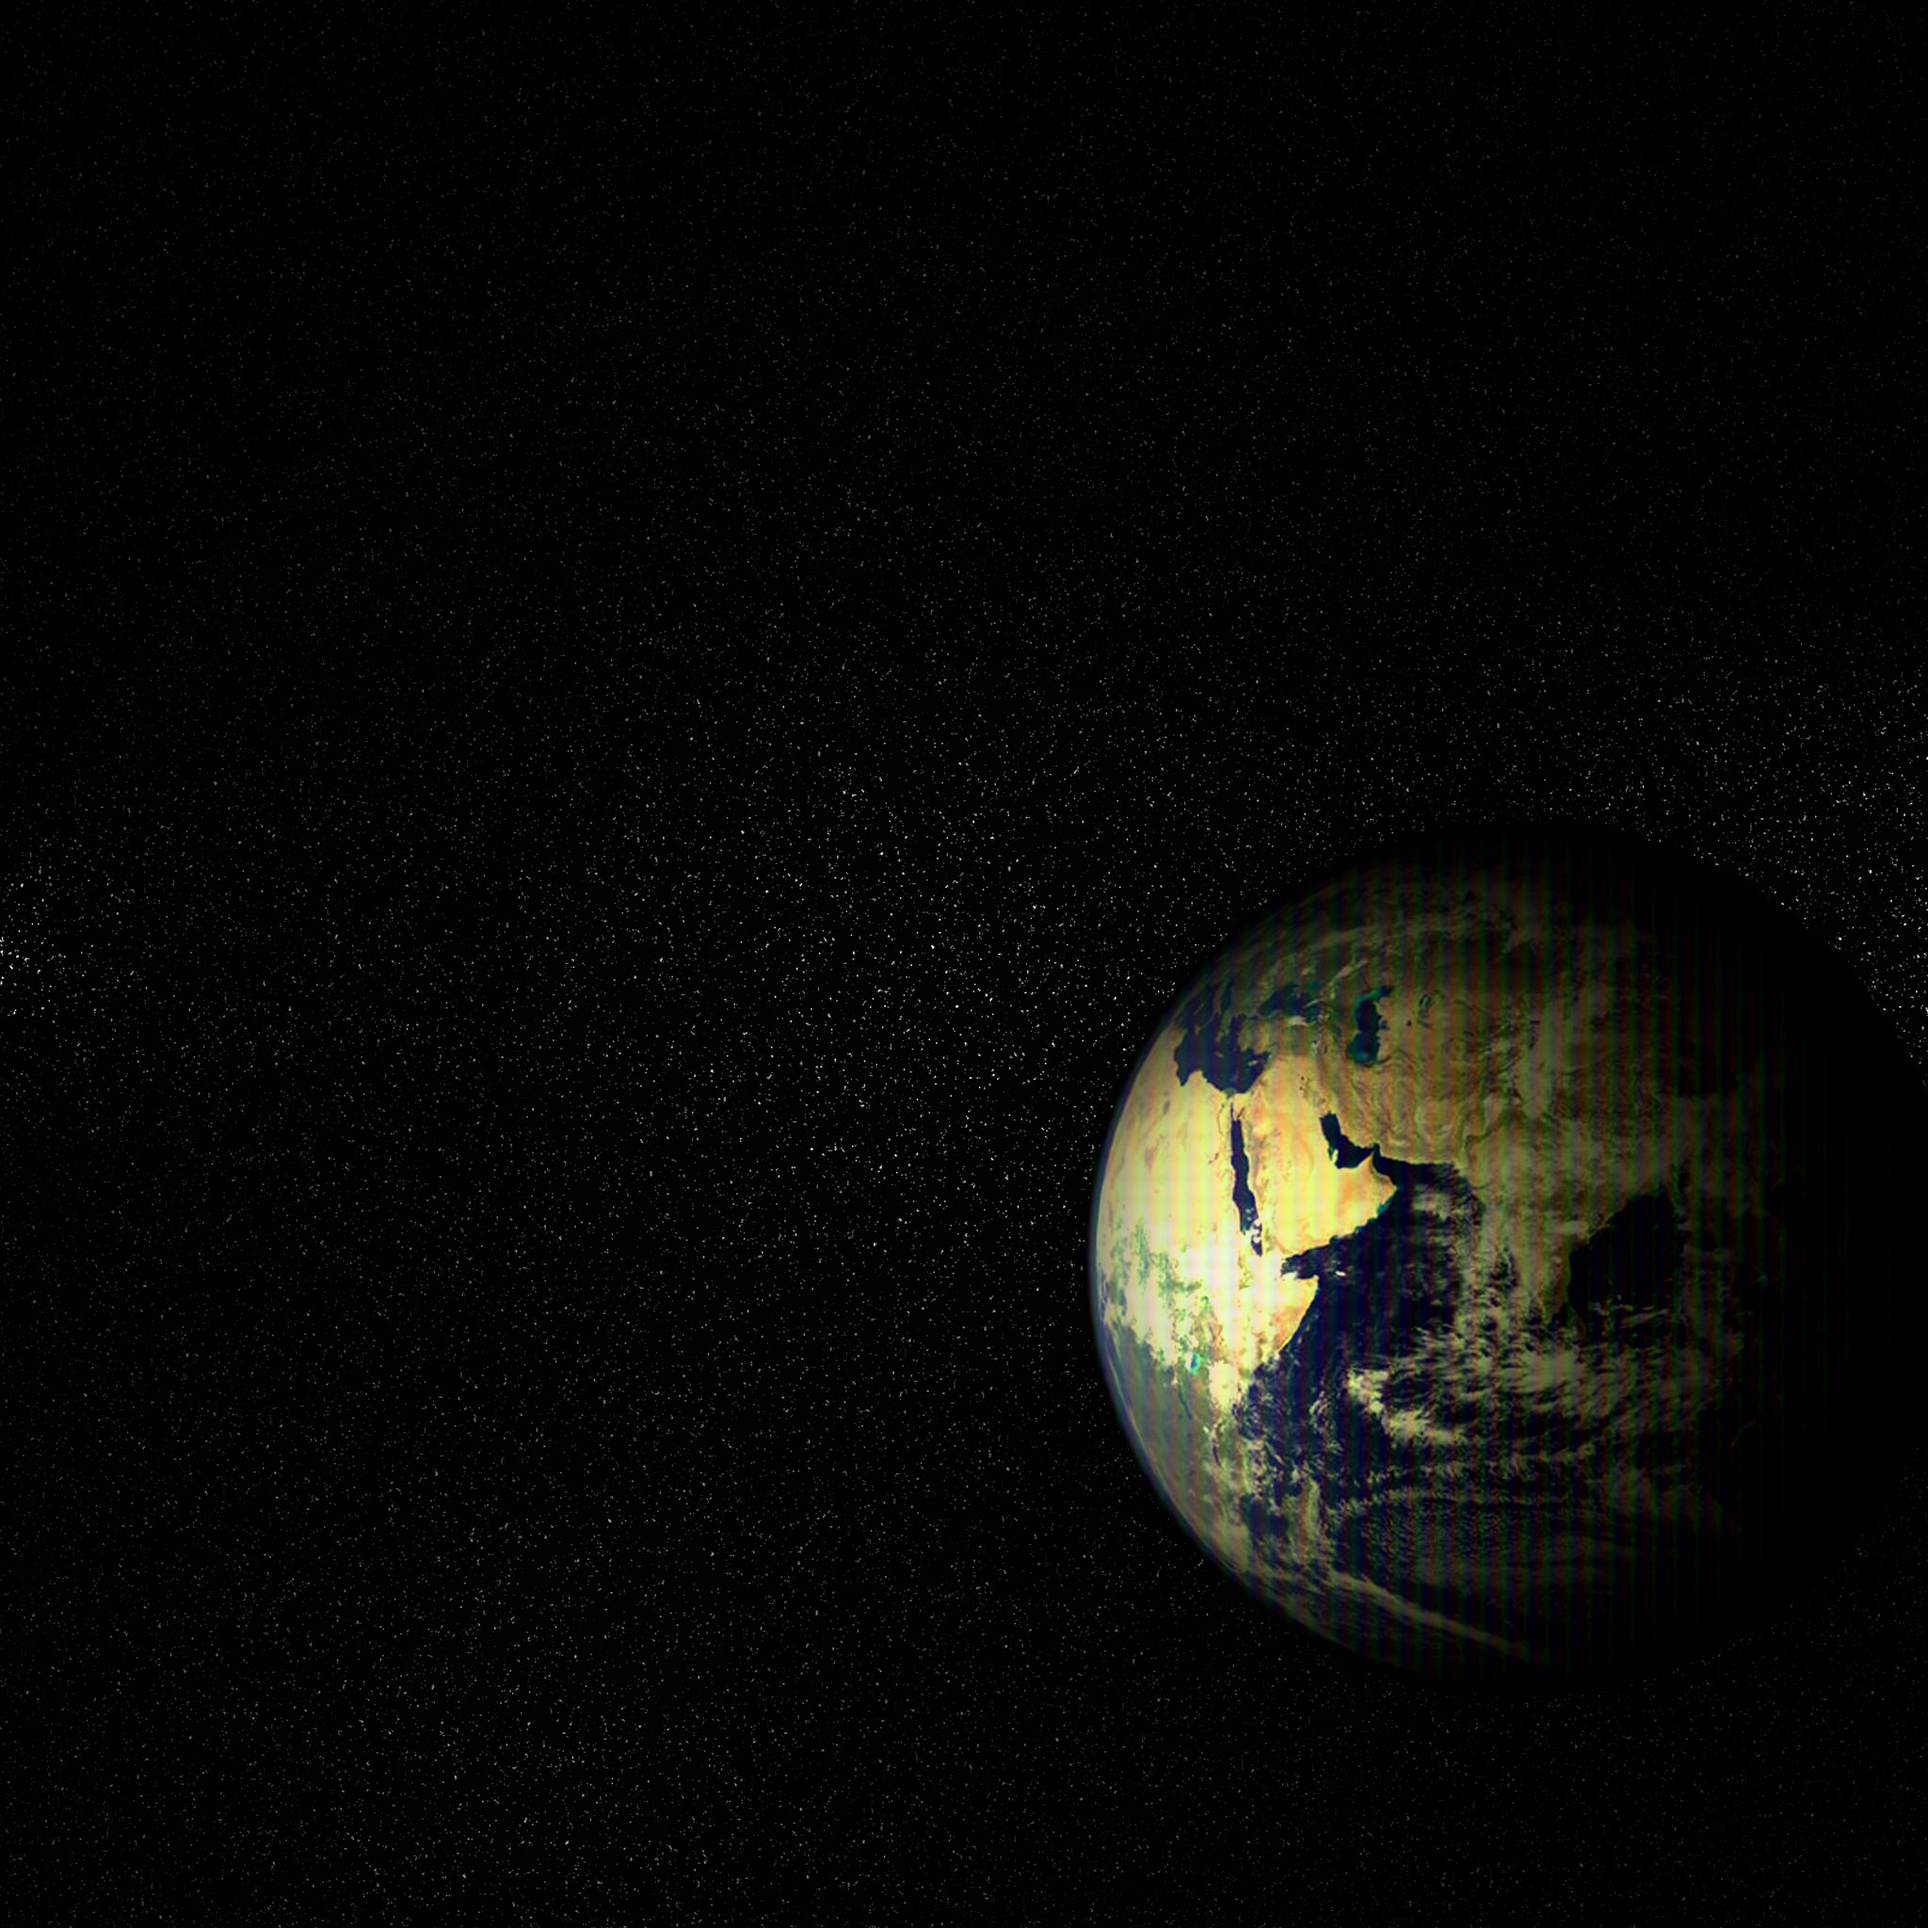
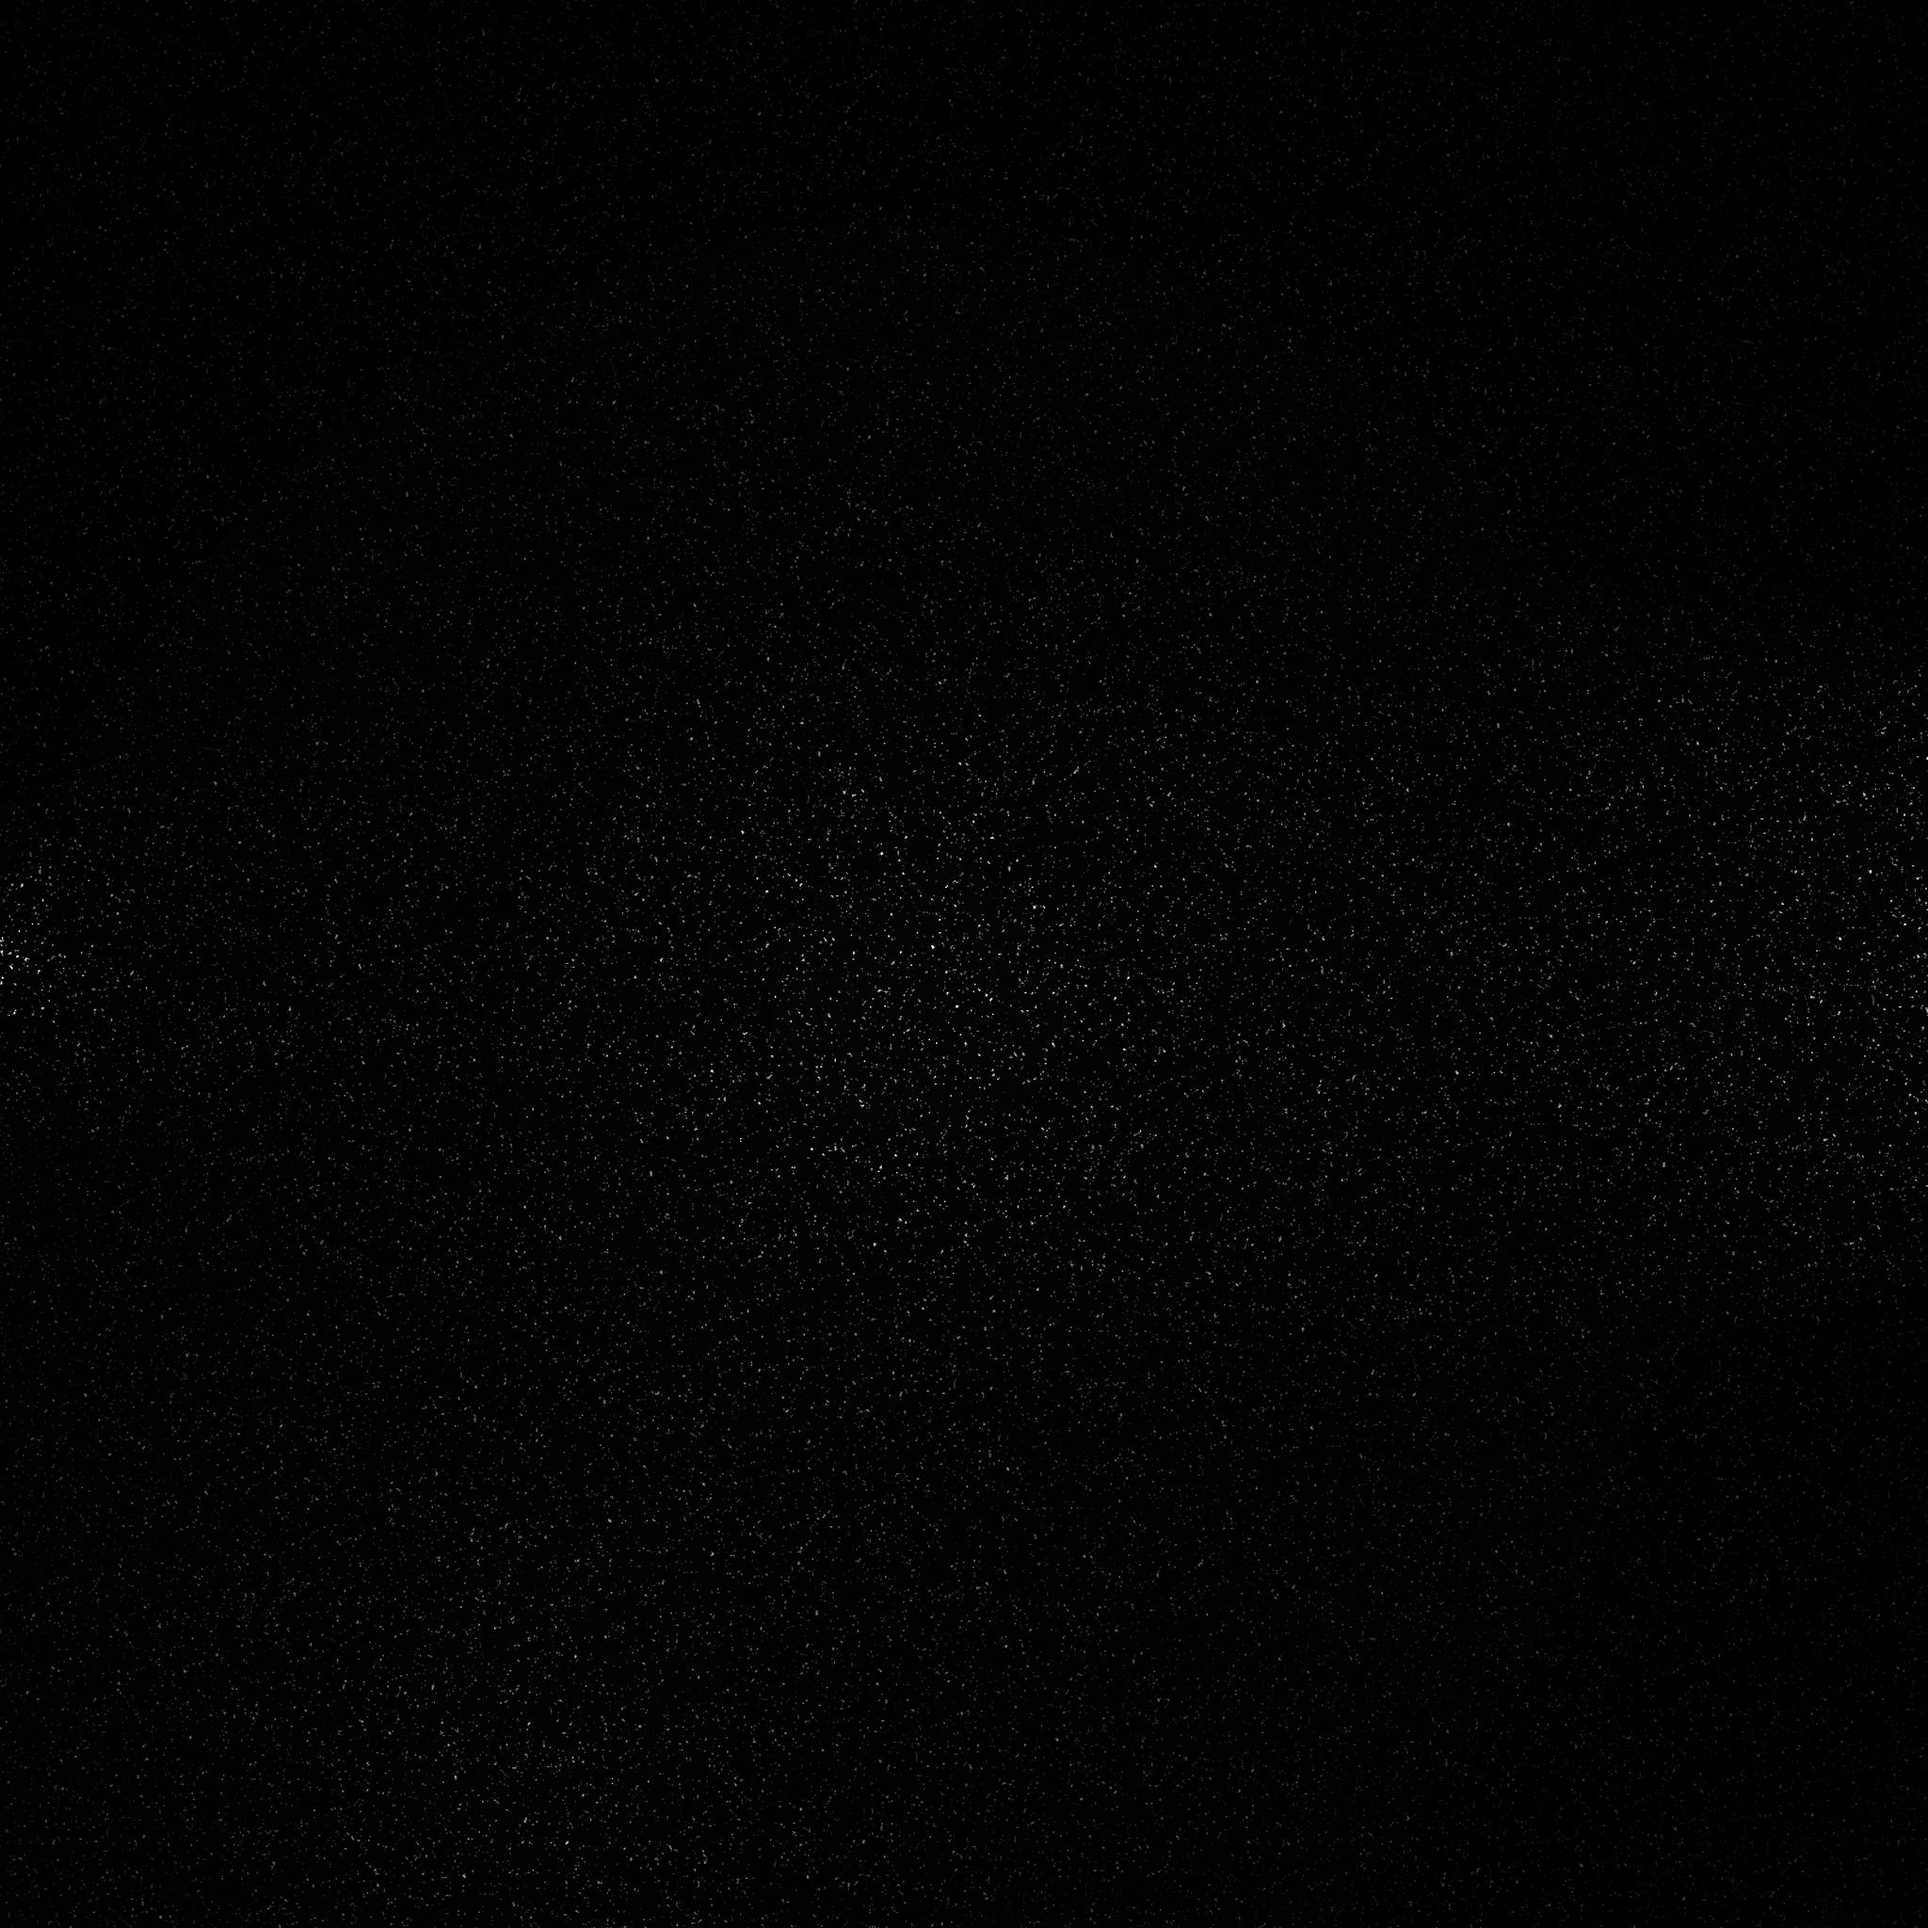
Updated menu to have a 3D spinning earth
Still needs a lot of work.
Lighting is wrong - phong shader is at fault here.

Probably need to make it dynamiclly load based on some options in the mod.conf

Changed region(s): [[0.5625, 0.4375, 0.9062, 0.875]]

diff --git a/src/render_opengl/menu.cpp b/src/render_opengl/menu.cpp
@@ -9,6 +9,7 @@
 #include "gl.h"
 #include "menu.h"
 #include "render_opengl.h"
+#include "animplay.h"
 
 #include "../guichan/guichan.hpp"
 #include "../guichan/sdl.hpp"
@@ -50,14 +51,12 @@ Menu::Menu(GameState *st, GameManager *gm)
 	this->render = (RenderOpenGL*) GEng()->render;
 	this->logo = NULL;
 	this->bg = NULL;
-	this->bgmesh = NULL;
 }
 
 
 Menu::~Menu()
 {
 	menuClear();
-	delete(this->bgmesh);
 	delete(this->logo);
 	delete(this->bg);
 }
@@ -130,52 +129,6 @@ void Menu::loadMenuItems()
 
 
 /**
-* Create the "background" mesh
-* We save it in a WavefrontObj.
-**/
-void Menu::createBGmesh()
-{
-	if (bgmesh != NULL) return;
-
-	Vertex v;
-	TexUV t;
-	Face f;
-
-	bgmesh = new WavefrontObj();
-	v.y = 0.0;
-
-	v.x = -1.0f; v.z = -1.0f; t.x = 0.0f; t.y = 0.0f;
-	bgmesh->vertexes.push_back(v);
-	bgmesh->texuvs.push_back(t);
-
-	v.x = -1.0f; v.z = 1.0f; t.x = 0.0f; t.y = 1.0f;
-	bgmesh->vertexes.push_back(v);
-	bgmesh->texuvs.push_back(t);
-
-	v.x = 1.0f; v.z = 1.0f; t.x = 1.0f; t.y = 1.0f;
-	bgmesh->vertexes.push_back(v);
-	bgmesh->texuvs.push_back(t);
-
-	v.x = 1.0f; v.z = -1.0f; t.x = 1.0f; t.y = 0.0f;
-	bgmesh->vertexes.push_back(v);
-	bgmesh->texuvs.push_back(t);
-
-	v.x = 0.0f; v.y = 1.0f; v.z = 0.0f;
-	bgmesh->normals.push_back(v);
-
-	f.v1 = 1; f.v2 = 2; f.v3 = 3;
-	f.t1 = 1; f.t2 = 2; f.t3 = 3;
-	f.n1 = 1; f.n2 = 1; f.n3 = 1;
-	bgmesh->faces.push_back(f);
-
-	f.v1 = 1; f.v2 = 3; f.v3 = 4;
-	f.t1 = 1; f.t2 = 3; f.t3 = 4;
-	f.n1 = 1; f.n2 = 1; f.n3 = 1;
-	bgmesh->faces.push_back(f);
-}
-
-
-/**
 * Run the menu
 * The UIUpdate is for the first-run on the menu, duing initial loading of the menu stuff
 **/
@@ -193,11 +146,11 @@ void Menu::doit(UIUpdate* ui)
 	this->gui_container->setOpaque(false);
 	this->gui->setTop(this->gui_container);
 
-	this->createBGmesh();
-	this->bg_rot1_pos = -10.0f;
-	this->bg_rot1_dir = 0.006f;
-	this->bg_rot2_pos = 3.0f;
-	this->bg_rot2_dir = -0.004f;
+	// This is a hack and leaks memory too
+	// TODO: Mod to be able to specify models
+	this->model_rot = -10.0f;
+	this->model = mod->getAssimpModel("earth.dae");
+	this->play = new AnimPlay(this->model);
 
 	this->loadModBits(ui);
 	this->setupGLstate();
@@ -291,41 +244,47 @@ void Menu::updateUI()
 		default: break;
 	}
 
-	// Background perspective matrix
-	glm::mat4 proj = glm::perspective(30.0f, static_cast<float>(render->real_width) / static_cast<float>(render->real_height), 1.0f, 2500.f);
-	proj = glm::scale(proj, glm::vec3(1.0f, -1.0f, 1.0f));
+	// Projection and view for 3D elements
+	render->projection = glm::perspective(45.0f, static_cast<float>(render->real_width) / static_cast<float>(render->real_height), 1.0f, 2500.0f);
+	render->view = glm::mat4(1.0f);
 
-	// Background animation
-	bg_rot1_pos += bg_rot1_dir;
-	if (bg_rot1_pos >= 10.0f || bg_rot1_pos <= -10.0f) bg_rot1_dir = -bg_rot1_dir;
-	bg_rot2_pos += bg_rot2_dir;
-	if (bg_rot2_pos >= 3.0f || bg_rot2_pos <= -3.0f) bg_rot2_dir = -bg_rot2_dir;
-
-	// Background view matrix
-	glm::mat4 bgMatrix = glm::translate(glm::mat4(1.0f), glm::vec3(0.0f, 0.0f, -1250.0f));
-	bgMatrix = glm::rotate(bgMatrix, 90.0f, glm::vec3(1.0f, 0.0f, 0.0f));
-	bgMatrix = glm::rotate(bgMatrix, bg_rot1_pos, glm::vec3(0.0f, 0.0f, 1.0f));
-	bgMatrix = glm::rotate(bgMatrix, bg_rot2_pos, glm::vec3(1.0f, 0.0f, 0.0f));
-	bgMatrix = glm::scale(bgMatrix, glm::vec3(650.0f, 50.0f, 650.0f));
-
+	// Assign lights to phong shader
+	glUseProgram(render->shaders["phong"]->p());
+	glUniform3fv(render->shaders["phong"]->uniform("uLightPos"), 1, glm::value_ptr(glm::vec3(-200.0f, 200.0f, -1550.0f)));		// TODO: This appears to be ignored
+	glUniform4fv(render->shaders["phong"]->uniform("uLightColor"), 1, glm::value_ptr(glm::vec4(0.7f, 0.7f, 0.6f, 1.0f)));
+	glUniform4fv(render->shaders["phong"]->uniform("uAmbient"), 1, glm::value_ptr(glm::vec4(0.1f, 0.1f, 0.1f, 1.0f)));
 
 	// Begin render
-	glEnable(GL_BLEND);
-	glDisable(GL_CULL_FACE);
-	glDisable(GL_DEPTH_TEST);
-	glClear(GL_COLOR_BUFFER_BIT);
+	glClear(GL_COLOR_BUFFER_BIT | GL_DEPTH_BUFFER_BIT);
 
-	glBindTexture(GL_TEXTURE_2D, bg->pixels);
-	this->render->renderObj(bgmesh, proj * bgMatrix);
+	// Draw background
+	glDisable(GL_DEPTH_TEST);
+	glUseProgram(render->shaders["basic"]->p());
+	glUniformMatrix4fv(render->shaders["basic"]->uniform("uMVP"), 1, GL_FALSE, glm::value_ptr(render->ortho));
+	this->render->renderSprite(bg, 0, ((static_cast<float>(render->real_height - render->real_width)) / 2.0f), render->real_width, render->real_width);
+
+	// We need depth for the 3D objects
+	glEnable(GL_DEPTH_TEST);
+
+	// Draw an earth
+	if (this->model != NULL && this->play != NULL) {
+		model_rot += 0.005f;
+		glm::mat4 modelMatrix = glm::translate(glm::mat4(1.0f), glm::vec3(400.0f, -200.0f, -1250.0f));
+		modelMatrix = glm::scale(modelMatrix, glm::vec3(250.0f, 250.0f, 250.0f));
+		modelMatrix = glm::rotate(modelMatrix, model_rot, glm::vec3(0.0f, 1.0f, 0.0f));
+		modelMatrix = glm::rotate(modelMatrix, -20.0f, glm::vec3(0.0f, 0.0f, 1.0f));
+		this->render->renderAnimPlay(this->play, modelMatrix);
+	}
 
 	// Menu items
+	glDisable(GL_DEPTH_TEST);
 	this->menuRender();
 
 	// Logo in top-left
 	glEnable(GL_BLEND);
 	glUseProgram(render->shaders["basic"]->p());
 	glUniformMatrix4fv(render->shaders["basic"]->uniform("uMVP"), 1, GL_FALSE, glm::value_ptr(render->ortho));
-	this->render->renderSprite(logo, 40, 40);
+	this->render->renderSprite(logo, 30, 30);
 
 	// Render guichan and process events
 	gui->logic();

diff --git a/src/render_opengl/menu.h b/src/render_opengl/menu.h
@@ -60,11 +60,10 @@ class Menu : public UIUpdate
 		gcn::Gui* gui;
 		gcn::Container* gui_container;
 
-		WavefrontObj * bgmesh;
-		float bg_rot1_pos;
-		float bg_rot1_dir;
-		float bg_rot2_pos;
-		float bg_rot2_dir;
+		// TODO: Mod configuration for this model (multiple?)
+		AssimpModel* model;
+		AnimPlay* play;
+		float model_rot;		// TODO: Proper timing for the animation
 
 	public:
 		// Data for the dialogs
